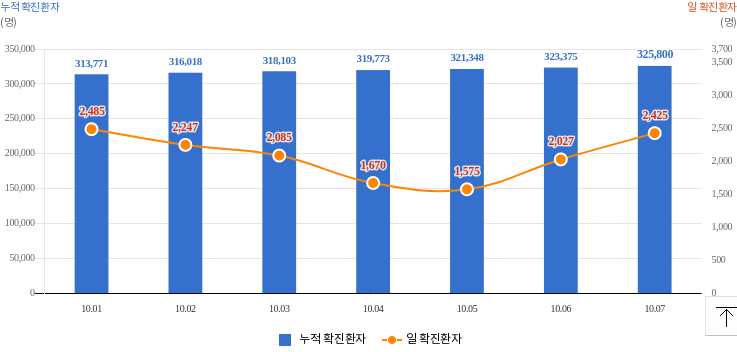
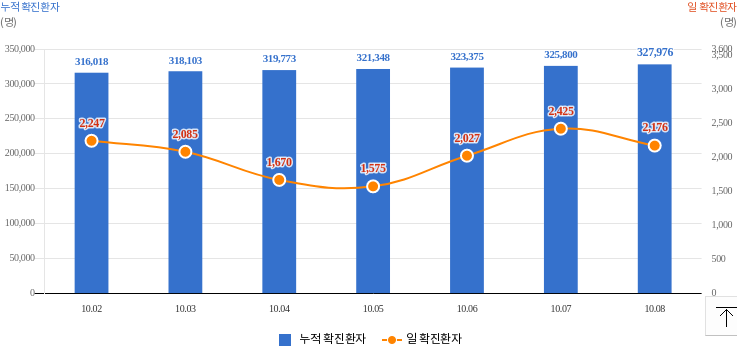
Run crawler and update current data

diff --git a/data.js b/data.js
@@ -1,13 +1,13 @@
-var 날짜 = '2021. 10. 8. (금) 0시 기준';
-var 계 = '1,749';
+var 날짜 = '2021. 10. 8. (금) 10시 기준';
+var 계 = '1,750';
 var 완치 = '1,709';
-var 입원중 = '37';
+var 입원중 = '38';
 var 사망자 = '3';
-var 검사중 = '2,252';
+var 검사중 = '2,251';
 var 검사결과 = '460,493';
 var 자가격리자 = '610';
 var 거리두기단계 = '사회적 거리두기  3단계 시행 : 2021.10.4.(월) 0시 ~ 10.17.(일) 24시';
-var 국내발생 = '2,400';
-var 해외발생 = '27';
-var 합계 = '2427';
+var 국내발생 = '2,145';
+var 해외발생 = '31';
+var 합계 = '2176';
 var data = [];
